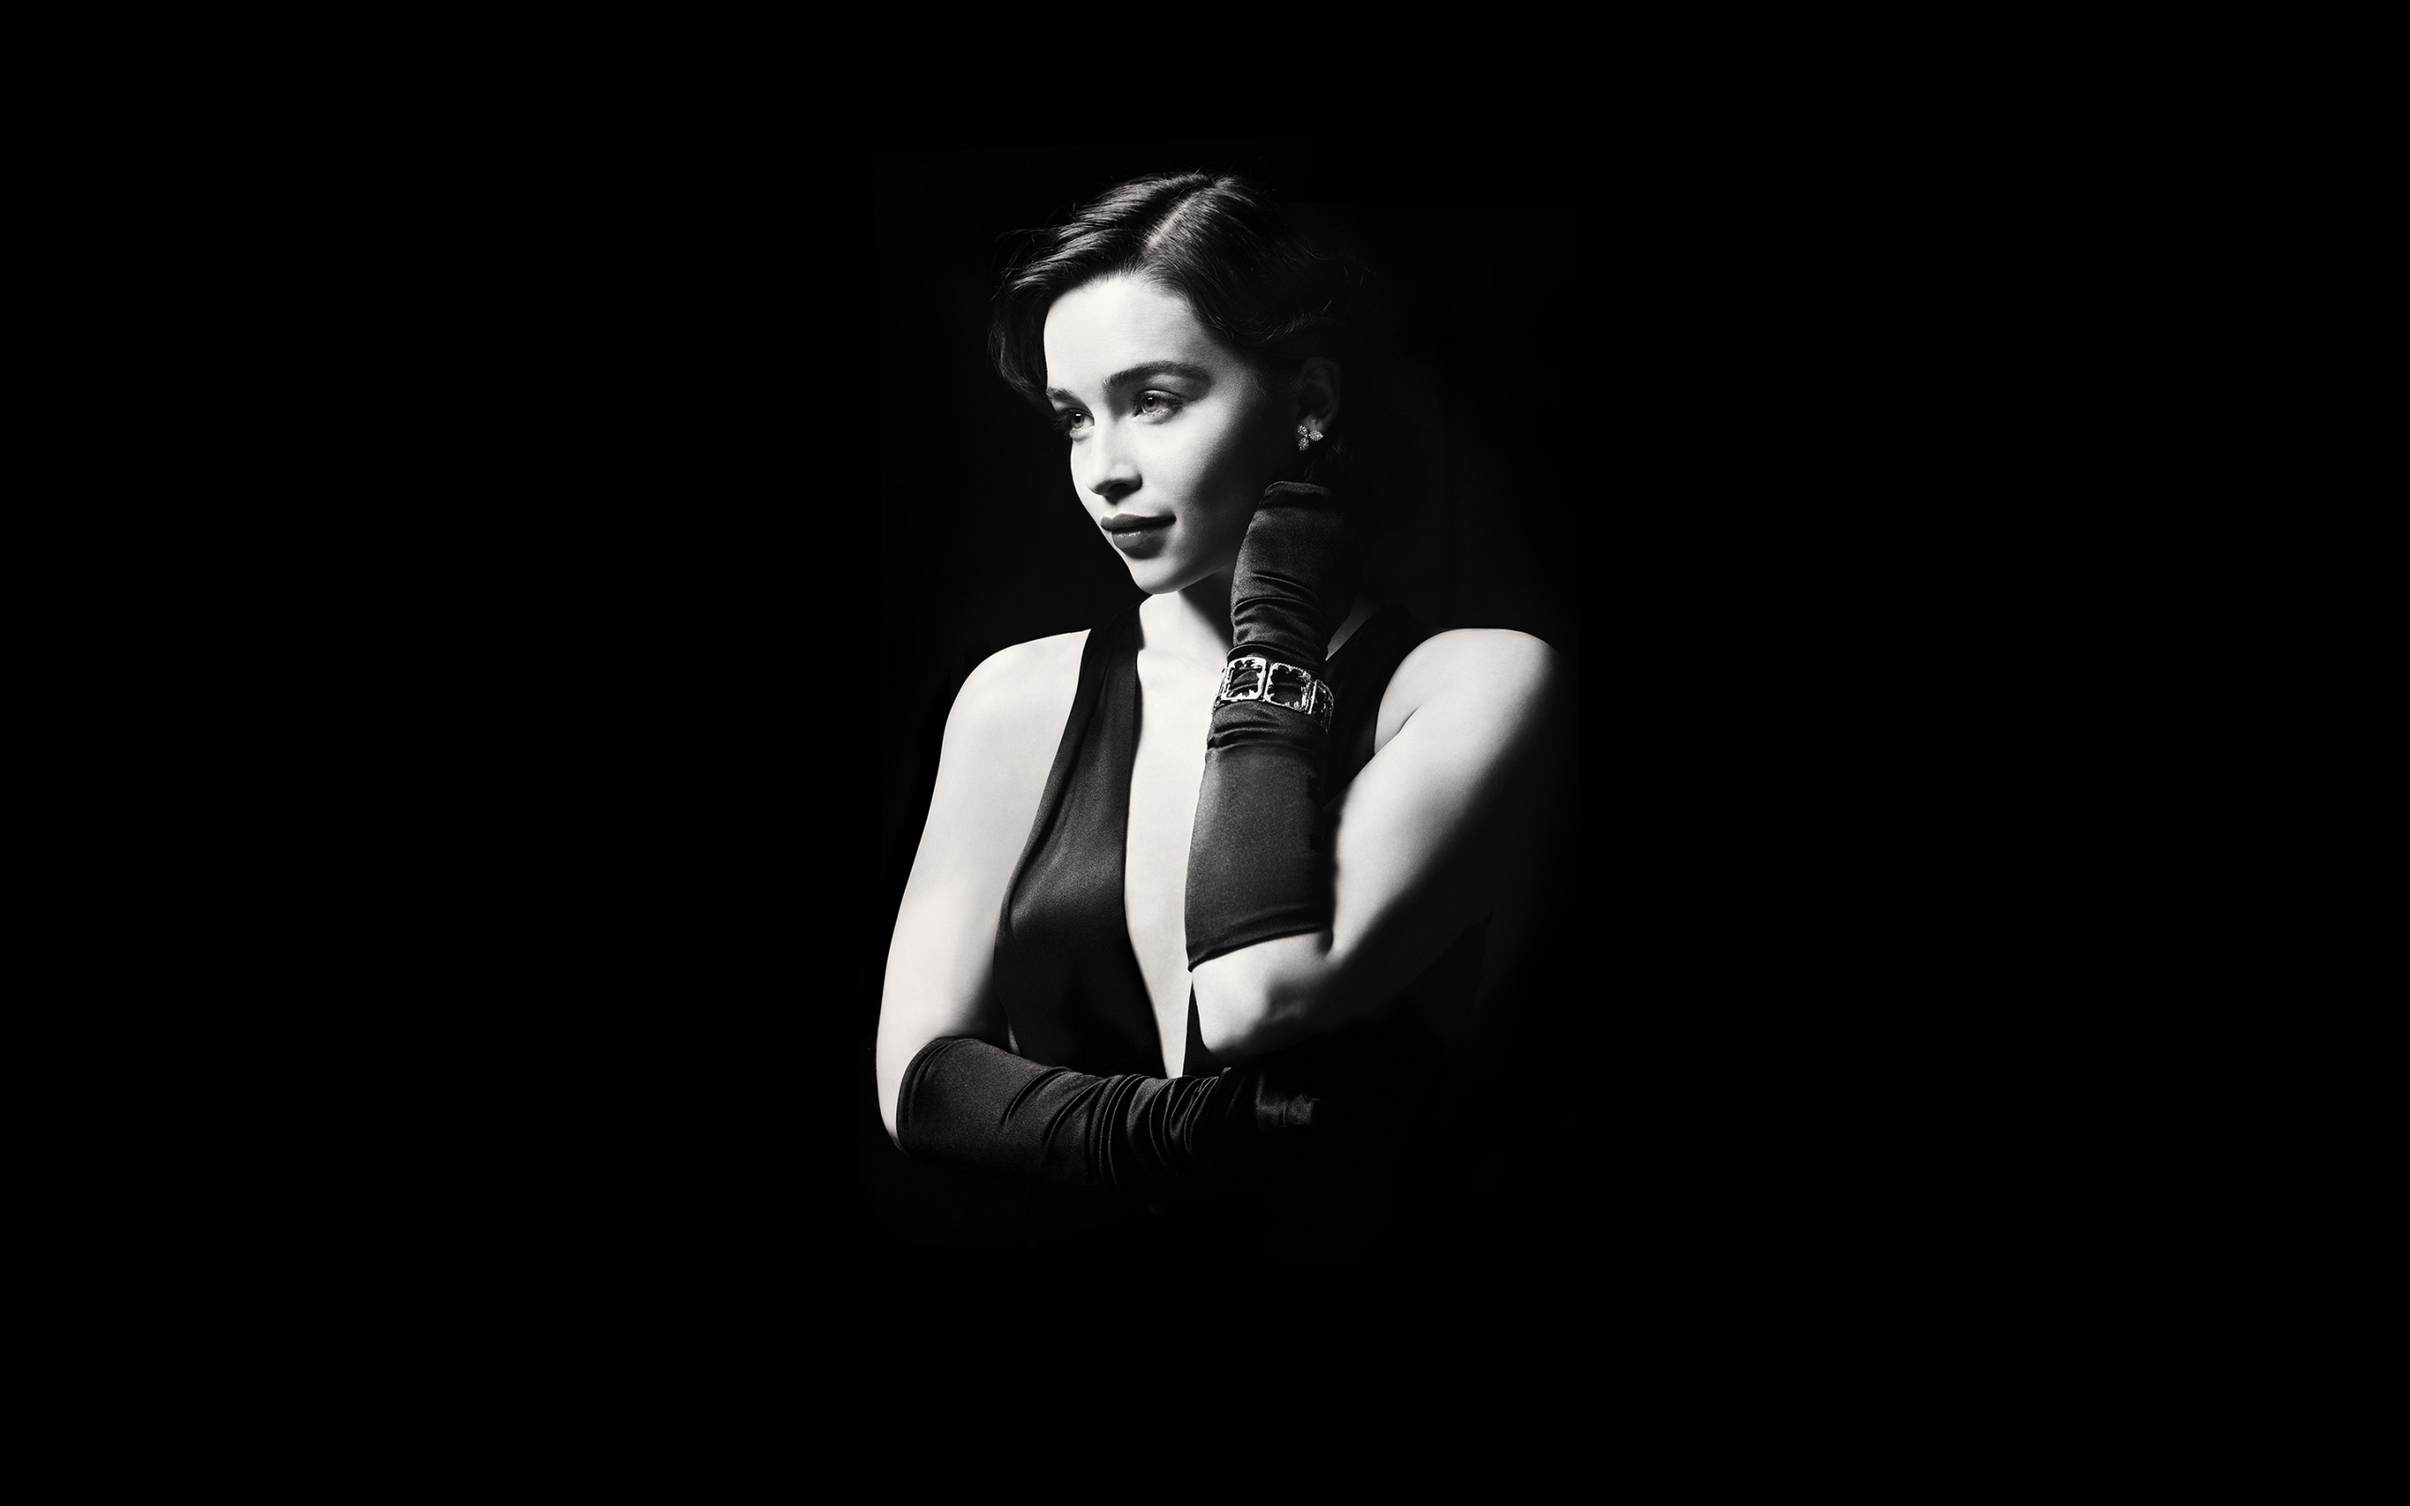
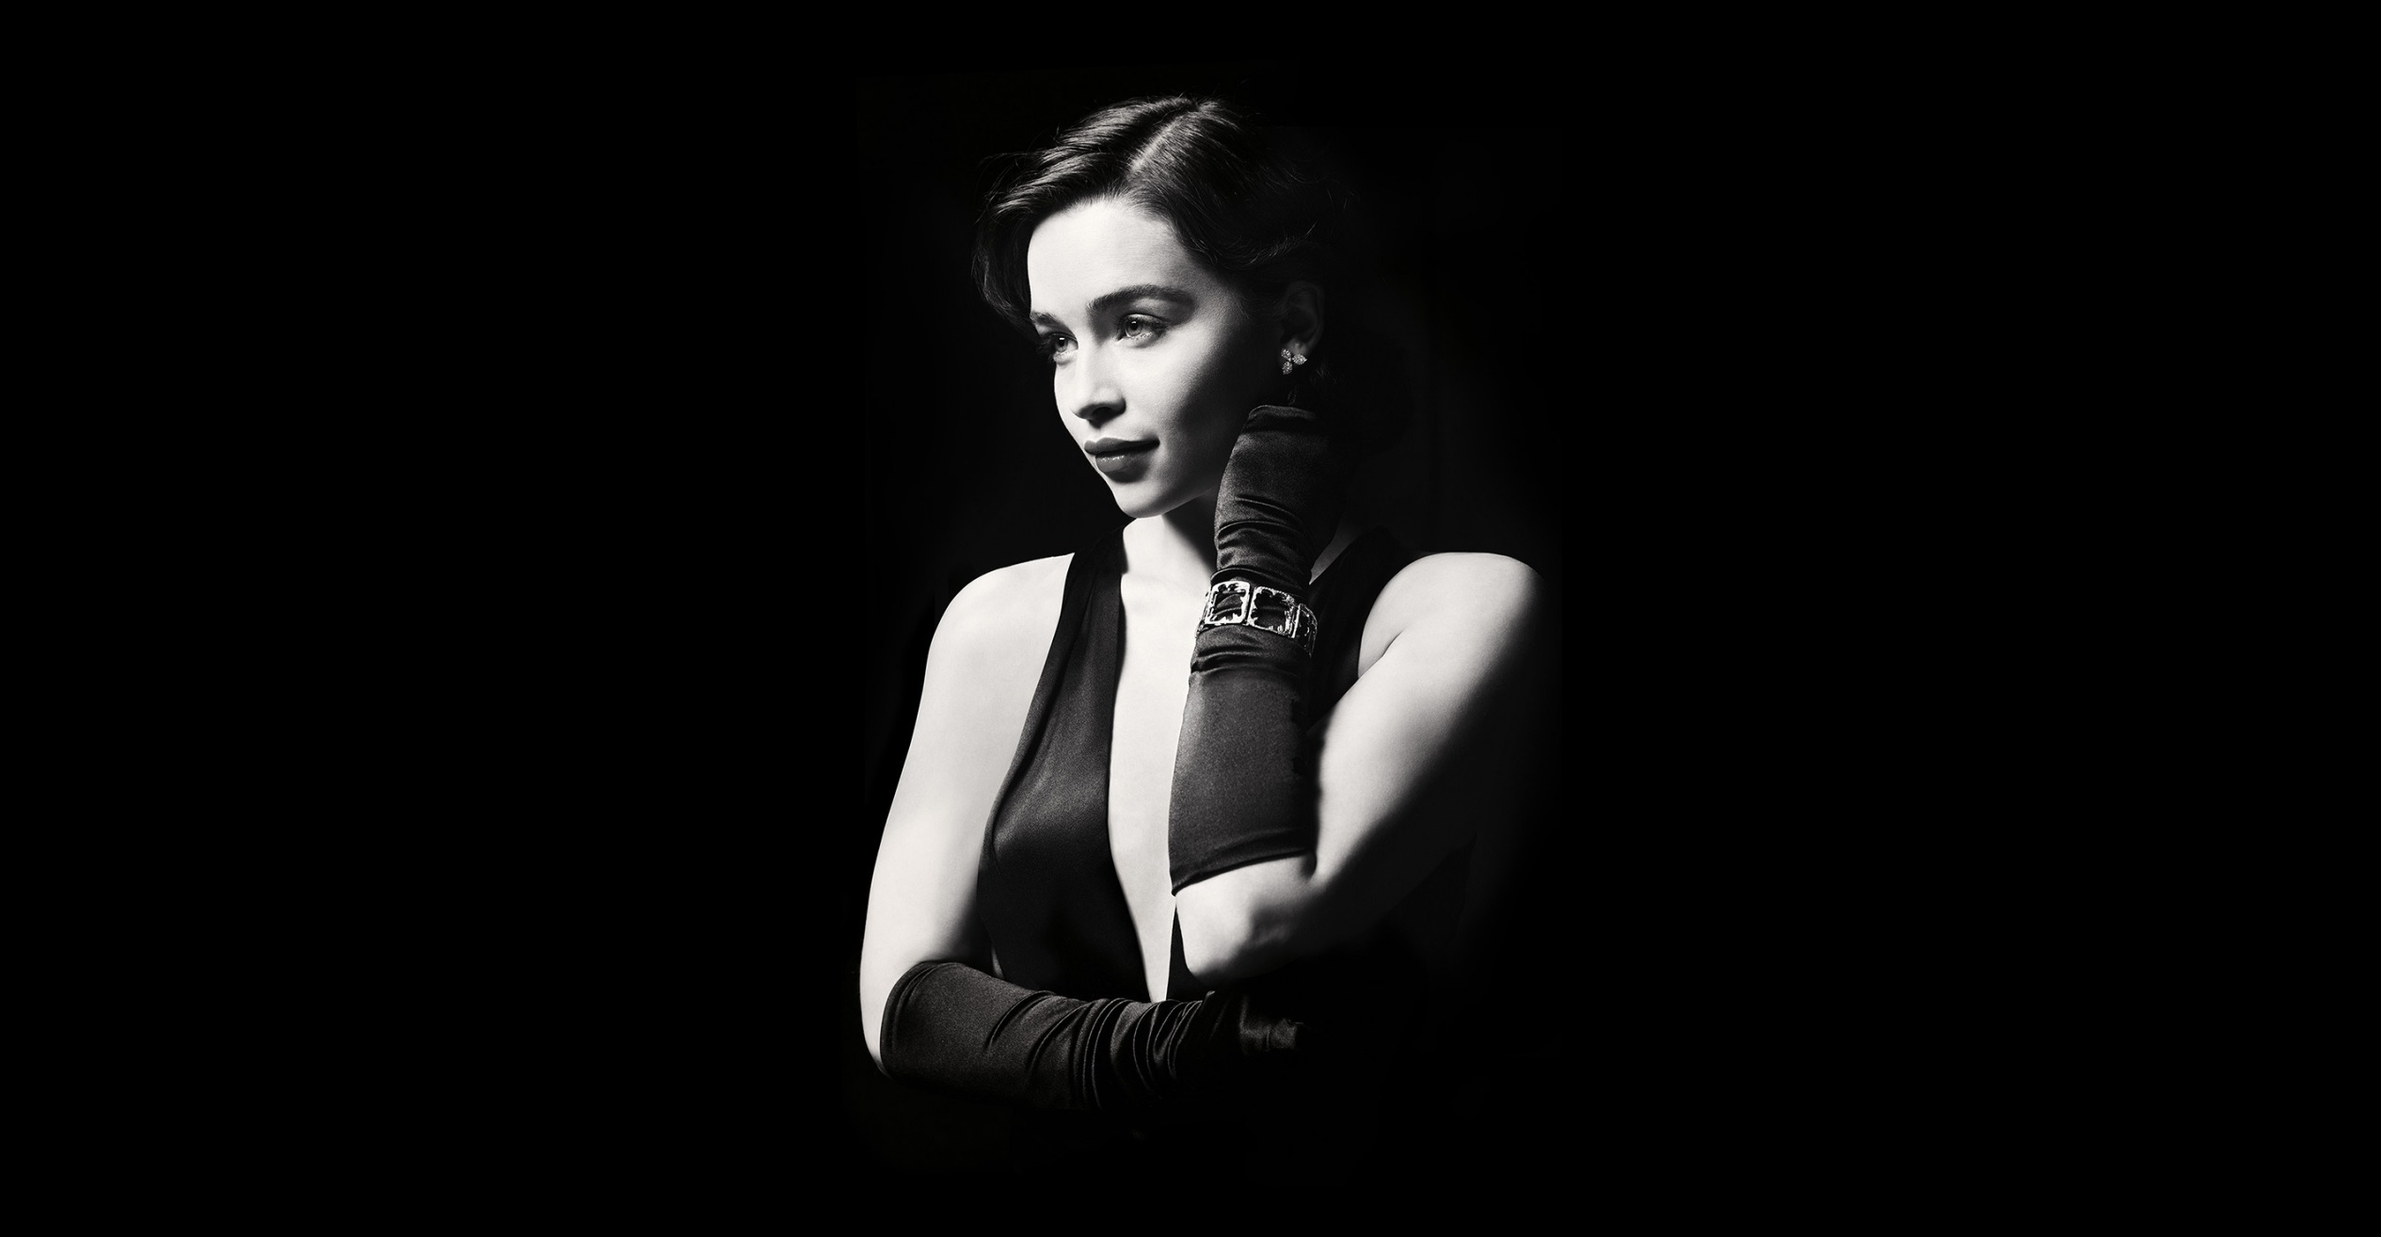
Se agregan mas estilos al index

Changed region(s): [[0.3435, 0.0624, 0.6557, 0.8737], [0.5308, 0.312, 0.5621, 0.3432]]

diff --git a/contactUs.html b/contactUs.html
@@ -1,115 +1,118 @@
 <!DOCTYPE html>
 <html lang="es">
-<head>
-    <meta charset="UTF-8">
-    <meta name="viewport" content="width=device-width, initial-scale=1.0">
+  <head>
+    <meta charset="UTF-8" />
+    <meta name="viewport" content="width=device-width, initial-scale=1.0" />
     <!--Google Fonts-->
-    <link rel="preconnect" href="https://fonts.googleapis.com">
-    <link rel="preconnect" href="https://fonts.gstatic.com" crossorigin>
-    <link href="https://fonts.googleapis.com/css2?family=Abel&display=swap" rel="stylesheet">
+    <link rel="preconnect" href="https://fonts.googleapis.com" />
+    <link rel="preconnect" href="https://fonts.gstatic.com" crossorigin />
+    <link href="https://fonts.googleapis.com/css2?family=Abel&display=swap" rel="stylesheet" />
     <!--CSS-->
-    <link rel="stylesheet" href="/css/estiloGeneral.css">
+    <link rel="stylesheet" href="/css/contactUs.css" />
     <title></title>
-</head>
-<body class="contact-page"> <!-- Cambiamos el ID por una clase llamada "contact-page" -->
+  </head>
+  <body class="contact-page">
+    <!-- Cambiamos el ID por una clase llamada "contact-page" -->
     <header>
-        <!--MENU SUPERIOR-->
-        <nav class="navbar">
-          <div class="container">
-              <div class="navbar-brand">
-                  <a href="#"><img src="/img/logoVertical.png" alt="Logo" class="logoNav"></a>
-              </div>
-              <div class="navbar-items">
-                  <ul class="navbar-nav">
-                      <li class="nav-item"><a href="#" class="navbar-link">Home</a></li>
-                      <li class="nav-item"><a href="#" class="navbar-link">About Us</a></li>
-                      <li class="nav-item"><a href="#" class="navbar-link">Shop</a></li>
-                      <li class="nav-item"><a href="./contactUs.html" class="navbar-link">Contact Us</a></li>
-                  </ul>
-              </div>
-              <div class="navbar-search">
-                  <input type="text" class="search-input" placeholder="Search for your product...">
-              </div>
+      <!--MENU SUPERIOR-->
+      <nav class="navbar">
+        <div class="container">
+          <div class="navbar-brand">
+            <a href="#"><img src="/img/logoVertical.png" alt="Logo" class="logoNav" /></a>
           </div>
+          <div class="navbar-items">
+            <ul class="navbar-nav">
+              <li class="nav-item"><a href="#" class="navbar-link">Home</a></li>
+              <li class="nav-item"><a href="#" class="navbar-link">About Us</a></li>
+              <li class="nav-item"><a href="#" class="navbar-link">Shop</a></li>
+              <li class="nav-item"><a href="./contactUs.html" class="navbar-link">Contact Us</a></li>
+            </ul>
+          </div>
+          <div class="navbar-search">
+            <input type="text" class="search-input" placeholder="Search for your product..." />
+          </div>
+        </div>
       </nav>
     </header>
     <main class="mainContainerContactUs">
-        <section class="sectionContainerContactUs">
-            <div class="contact-form"> <!-- Agregar la clase "contact-form" -->
-                <h1>Contacto</h1>
-                <p>Rellena el formulario para ponerte en contacto con nosotros</p>
-                <div>
-                    <h6>Direccion y horarios</h6>
-                    <p>General Paz 656</p>
-                    <p>Lunes a Viernes: 08:00 a 16:00</p>
-                    <p>Sábados: 08:00 a 12:00</p>
-                    <h6>Teléfonos</h6>
-                    <p>Whatsapp: +54-0381-1234567</p>
-                    <p>Tel: +54-0381-4123456</p>
-                    <h6>Redes Sociales</h6>
-                    <div>
-                        <a href="#"><img src="https://i.ibb.co/WGr2GVn/facebook-5968973-NEGRO.png" width="29" height="29" alt="Facebook"></a>
-                        <a href="#"><img src="https://i.ibb.co/xDwCBvp/instagram-5968982-NEGRO.png" width="29" height="29" alt="Instagram"></a>
-                        <a href="#"><img src="https://i.ibb.co/V22ntPY/whatsapp-5969035-NEGRO.png" width="29" height="29" alt="WhatsApp"></a>
-                    </div>
-                </div>
-                <form>
-                    <div>
-                        <label for="name">Nombre Completo</label>
-                        <input type="text" id="name" placeholder="Nombre Completo">
-                    </div>
-                    <div>
-                        <label for="email">Correo Electrónico</label>
-                        <input type="email" id="email" placeholder="Correo Electrónico">
-                    </div>
-                    <div>
-                        <label for="tel">Número de Teléfono</label>
-                        <input type="tel" id="tel" placeholder="Número de Teléfono">
-                    </div>
-                    <div>
-                        <label for="message">Mensaje</label>
-                        <textarea id="message" placeholder="Mensaje"></textarea>
-                    </div>
-                    <button type="submit">Enviar</button>
-                </form>
+      <section class="sectionContainerContactUs">
+        <div class="contact-form">
+          <!-- Agregar la clase "contact-form" -->
+          <h1>Contacto</h1>
+          <p>Rellena el formulario para ponerte en contacto con nosotros</p>
+          <div>
+            <h6>Direccion y horarios</h6>
+            <p>General Paz 656</p>
+            <p>Lunes a Viernes: 08:00 a 16:00</p>
+            <p>Sábados: 08:00 a 12:00</p>
+            <h6>Teléfonos</h6>
+            <p>Whatsapp: +54-0381-1234567</p>
+            <p>Tel: +54-0381-4123456</p>
+            <h6>Redes Sociales</h6>
+            <div>
+              <a href="#"><img src="https://i.ibb.co/WGr2GVn/facebook-5968973-NEGRO.png" width="29" height="29" alt="Facebook" /></a>
+              <a href="#"><img src="https://i.ibb.co/xDwCBvp/instagram-5968982-NEGRO.png" width="29" height="29" alt="Instagram" /></a>
+              <a href="#"><img src="https://i.ibb.co/V22ntPY/whatsapp-5969035-NEGRO.png" width="29" height="29" alt="WhatsApp" /></a>
             </div>
-            <!-- Modal -->
-            <div class="modal"> <!-- Agregar la clase "modal" -->
-                <div class="modal-content">
-                    <h2>Mensaje enviado correctamente.</h2>
-                    <div>
-                        <button>Cerrar</button>
-                    </div>
-                </div>
+          </div>
+          <form>
+            <div>
+              <label for="name">Nombre Completo</label>
+              <input type="text" id="name" placeholder="Nombre Completo" />
             </div>
-        </section>
+            <div>
+              <label for="email">Correo Electrónico</label>
+              <input type="email" id="email" placeholder="Correo Electrónico" />
+            </div>
+            <div>
+              <label for="tel">Número de Teléfono</label>
+              <input type="tel" id="tel" placeholder="Número de Teléfono" />
+            </div>
+            <div>
+              <label for="message">Mensaje</label>
+              <textarea id="message" placeholder="Mensaje"></textarea>
+            </div>
+            <button type="submit">Enviar</button>
+          </form>
+        </div>
+        <!-- Modal -->
+        <div class="modal">
+          <!-- Agregar la clase "modal" -->
+          <div class="modal-content">
+            <h2>Mensaje enviado correctamente.</h2>
+            <div>
+              <button>Cerrar</button>
+            </div>
+          </div>
+        </div>
+      </section>
     </main>
     <footer class="footerContainer">
-        <div class="footerDivContainer">
-            <div class="footerItemContainer">
-                <div class="footerDivItem">
-                    <h4 class="footerLink">Atención</h4>
-                    <h6 class="">General Paz 656</h6>
-                    <h6 class="">Lunes a Viernes: 08:00 a 16:00</h6>
-                    <h6 class="">Sábados: 08:00 a 12:00</h6>
-                </div>
-                <div class="footerDivItem">
-                    <h4 className="footerLink">Redes Sociales</h4>
-                    <a href="https://www.facebook.com/LevonaFashion&Clothing" target="_blank">
-                        <img src="https://i.ibb.co/svX8BYY/facebook-5968973-BLANCO.png" width="29" height="29" className="img-fluid cursor-pointer">
-                    </a>
-                    <a href="https://www.instagram.com/LevonaFashion&Clothing" target="_blank">
-                        <img src="https://i.ibb.co/xs2KJMx/instagram-5968982-BLANCO.png" width="29" height="29" className="img-fluid cursor-pointer">
-                    </a>
-                    <a href="https://www.whatsapp.com/LevonaFashion&Clothing" target="_blank">
-                        <img src="https://i.ibb.co/s6fQm49/whatsapp-5969035-BLANCO.png" width="29" height="29" className="img-fluid cursor-pointer">
-                    </a>
-                </div>
-            </div>
-            <div class="footerDivItem">
-                <img class="footerLogo" src="/img/logoVerticalBlanco.png" alt="">
-            </div>
+      <div class="footerDivContainer">
+        <div class="footerItemContainer">
+          <div class="footerDivItem">
+            <h4 class="footerLink">Atención</h4>
+            <h6 class="">General Paz 656</h6>
+            <h6 class="">Lunes a Viernes: 08:00 a 16:00</h6>
+            <h6 class="">Sábados: 08:00 a 12:00</h6>
+          </div>
+          <div class="footerDivItem">
+            <h4 className="footerLink">Redes Sociales</h4>
+            <a href="https://www.facebook.com/LevonaFashion&Clothing" target="_blank">
+              <img src="https://i.ibb.co/svX8BYY/facebook-5968973-BLANCO.png" width="29" height="29" className="img-fluid cursor-pointer" />
+            </a>
+            <a href="https://www.instagram.com/LevonaFashion&Clothing" target="_blank">
+              <img src="https://i.ibb.co/xs2KJMx/instagram-5968982-BLANCO.png" width="29" height="29" className="img-fluid cursor-pointer" />
+            </a>
+            <a href="https://www.whatsapp.com/LevonaFashion&Clothing" target="_blank">
+              <img src="https://i.ibb.co/s6fQm49/whatsapp-5969035-BLANCO.png" width="29" height="29" className="img-fluid cursor-pointer" />
+            </a>
+          </div>
         </div>
+        <div class="footerDivItem">
+          <img class="footerLogo" src="/img/logoVerticalBlanco.png" alt="" />
+        </div>
+      </div>
     </footer>
-</body>
+  </body>
 </html>

diff --git a/css/contactUs.css b/css/contactUs.css
@@ -25,18 +25,15 @@ body, html {
 
 /* Contenedor de Sección */
 .sectionContainer {
-    height: 100vh; /* Asegurar que la sección ocupe toda la altura de la ventana */
-    display: flex;
-    justify-content: center; /* Centrar horizontalmente */
-    align-items: center; /* Centrar verticalmente */
+    height: 100%; /* Asegurar que la sección ocupe toda la altura del contenedor principal */
+    display: flex; /* Usar flexbox para centrar verticalmente la imagen */
+    justify-content: center; /* Centrar verticalmente */
+    align-items: center; /* Centrar horizontalmente */
+    border-bottom: solid 1px #E0CCBE;
+    border-top: solid 1px #E0CCBE;
     padding: 0;
     margin: 0;
     background-color: #000000;
-    position: relative; /* Para que el título pueda posicionarse absolutamente */
-    background-image: url('/img/fotoCentral/pexels-terje-sollie-313707.jpg'); /* Imagen de fondo */
-    background-size: cover; /* Ajustar la imagen para que cubra todo el contenedor */
-    background-position: center; /* Centrar la imagen */
-    padding-top: 150px;
 }
 
 .titleMain {
@@ -45,46 +42,11 @@ body, html {
     font-weight: 600;
     margin: 0;
     padding-top: 40px;
-    display: flex;
-    justify-content: center;
-    text-shadow: 2px 2px #000000;
-}
-
-.buttonMain {
-    background-color: #000000;
-    color: #E0CCBE;
-    border: solid 0.5px #000000;
-    padding: 10px 20px;
     text-align: center;
-    justify-content: center;
-    align-items: center;
-    text-decoration: none;
-    display: flex;
-    cursor: pointer;
-    border-radius: 6px;
-    transition: background-color 0.3s ease;
-    font-weight: bold;
 }
 
-.buttonMain:hover {
-    background-color: #E0CCBE;
-    color: #000000;
-}
-
-.aButtonMain {
-    text-decoration: none;
-    font-weight: bold;
-}
-
-
-.sectionContainer-item {
-    display: flex;
-    flex-direction: column;
-    justify-content: center;
-    align-items: center;
-    text-align: center;
-    margin-top: 20px;
-    margin-bottom: 20px;
+.sectionContainer-item img {
+    height: 100%
 }
 
 /* Estilos para el navbar */
@@ -110,11 +72,11 @@ body, html {
 }
 
 .navbar-brand img {
-width: 10rem;
+width: 6rem;
 }
 
 .logoNav {
-    width: 100%; /* Ancho de la imagen del logo */
+    width: 350px; /* Ancho de la imagen del logo */
     margin-right: 1rem; /* Espaciado entre el logo y el nombre de la marca */
 }
 
@@ -149,13 +111,7 @@ width: 10rem;
     border: 2px solid #747264; /* Borde del input */
     border-radius: 0.25rem; /* Borde redondeado */
     background-color: #E0CCBE;
-    color: #000000;
-}
-
-.search-input::placeholder {
-    color: #000000;
-    font-size: 13px;
-    font-weight: bold;
+    color: black;
 }
 
 /* Footer */
@@ -165,7 +121,6 @@ width: 10rem;
     padding: 10px 0; /* Espaciado interno del footer */
     width: 100%;
     margin-top: auto;
-    border-top: solid 1px #E0CCBE;
 }
 
 /* Contenedor del Footer */
@@ -211,7 +166,6 @@ width: 10rem;
     color: #E0CCBE;
     font-size: medium;
 }
-
 
 /* Estilos Contact Us */
 
@@ -273,5 +227,8 @@ width: 10rem;
         margin-top: 0;
     }
 
+    .sectionContainer-item img {
+        height: 60rem;
+    }
 
 }

diff --git a/index.html b/index.html
@@ -39,7 +39,7 @@
       <section class="sectionContainer">
         <div class="sectionContainer-item">
           <h1 class="titleMain">Levona Fashion & Clothing</h1>
-          <img src="/img/fotoCentral/pexels-terje-sollie-313707.jpg" alt="" />
+          <a href="./shop.html" class="aButtonMain"><button class="buttonMain">Go to Shop</button></a>
         </div>
       </section>
     </main>
